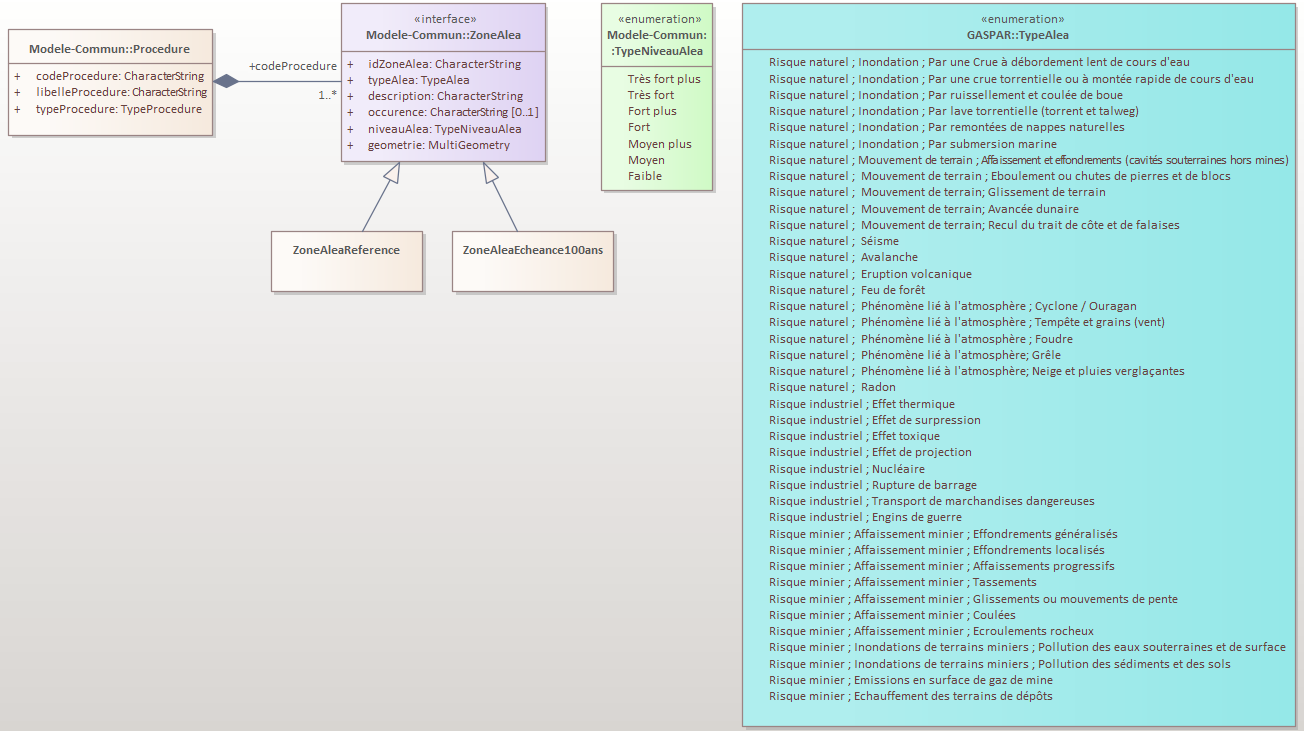
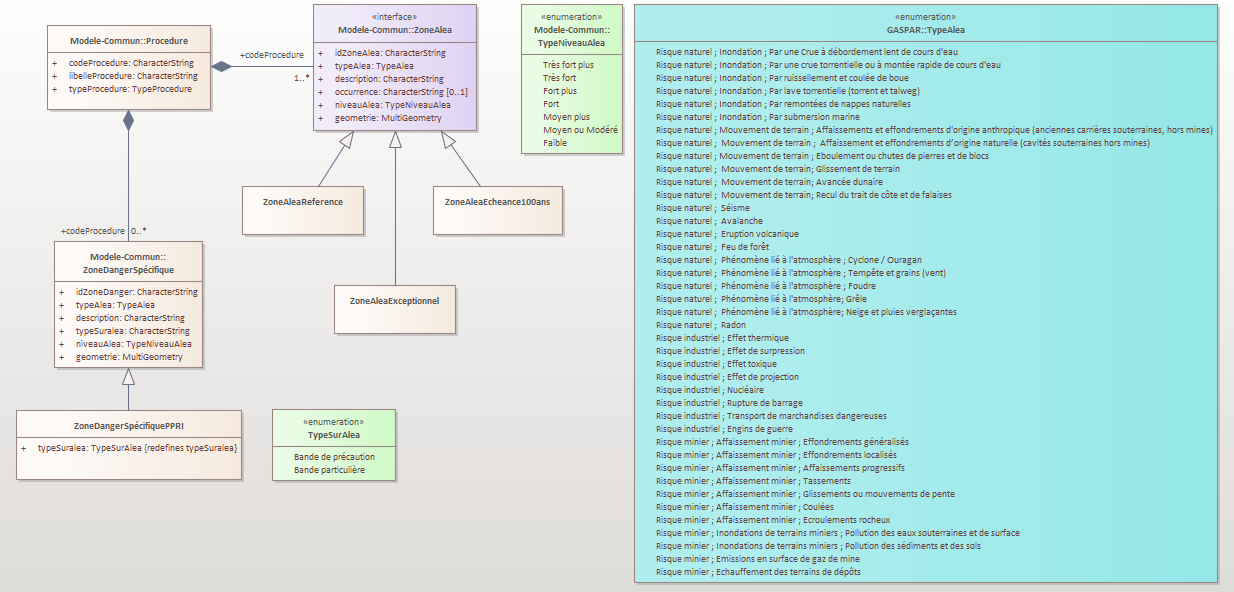
Debut modif PPR. Specialisation ZoneDangerSpecifique et Ajout AleaExceptionnel.

diff --git a/standards/Geostandards-risques-ppr/Document.md b/standards/Geostandards-risques-ppr/Document.md
@@ -15,7 +15,7 @@ Plans de prévention des risques (PPR)
 
 Groupe de travail refonte des Géostandards Risques
 
-*Version 0.1 - Date*
+*Version 0.2 - Date*
 
 
 
@@ -26,7 +26,7 @@ Groupe de travail refonte des Géostandards Risques
 |-|-|
 | **Titre** | Géostandards Risques |
 | **Sous-titre** | Profil applicatif Plans de Prévention des Risques |
-| **Version du document** | *0.1 - jj mois aaaa (date de publication)*  |
+| **Version du document** | *0.2 - jj mois aaaa (date de publication)*  |
 | **Résumé** | La famille des Géostandards Risques a pour objectif de standardiser les données numériques géographiques relatives aux procédures réglementaires de prévention des risques. Elle a été développée dans le but de moderniser et succéder aux standards COVADIS dédiés à cette thématique tels que les standards Plan de Prévention des Risques (PPR) Naturels, Technologiques et Miniers ou Directive Inondation (DI). Elle est constituée d'un document qui établit les concepts communs à ces géostandards et d'un ensemble de profils applicatifs qui les précisent et les implémentent dans le cas de procédures particulières. Ce document est le profil applicatif dédié aux Plans de Prévention des Risques (PPR). |
 | **Etendue d'application** | Territoire national français |
 | **Resolution spatiale** | Entre le 1:5000 et le 1:25000 |
@@ -51,6 +51,7 @@ Groupe de travail refonte des Géostandards Risques
 | Version | Date | Raison |
 | - | - | - |
 | 0.1 | 11/09/2023 | Première version pour relecture du Groupe de Travail |
+| 0.2 | xx/xx/2024 | Prise en compte de la relecture du Groupe de Travail. Version pour commentaires publics. Modifications : xxx  |
 
 ##  Participation à l'écriture
 
@@ -61,11 +62,11 @@ Ce standard a été rédigé par Gilles Cébélieu (IGN) et Alison Lenain (IGN) 
 | Nom |Affiliation 
 | - | - |
 | Besson Stanislas | DDT de l'Isère (38) |
-| Bonnin Nicolas | MTE / DGPR / DAGSI |
-| Bouffier Jacques | MTE / DGPR / BRIL |
+| Bonnin Nicolas | MTECT / DGPR / DAGSI |
+| Bouffier Jacques | MTECT / DGPR /SRNH / SdCAP / BRIL |
 | Boudesseul Nicolas | DREAL Pays de la Loire |
 | Chrétien Guillaume | DDTM de la Seine Maritime (76) |
-| Coignon Bastien | MTE / DGPR / BRIL |
+| Coignon Bastien | MTECT / DGPR / SRNH / SdCAP / BRIL |
 | Di Salvo Magali | DREAL Auvergne Rhone Alpes |
 | Evain Yohann | Cerema |
 
@@ -90,11 +91,11 @@ Il a vocation à se substituer et rendre obsolètes les dernières versions des 
 
 
 
-##  A qui s'adresse ce document ?
+## À qui s'adresse ce document ?
 
 Ce document s'adresse :
 
-- aux services de l'Etat ou assimilés, chargés de produire les PPR, les entretenir les diffuser.
+- aux services de l'Etat ou assimilés, chargés de produire les PPR, les maintenir et les diffuser.
 - aux utilisateurs des PPR, amenés à en prendre connaissance ou les exploiter : services de l'Etat, collectivités locales, professionnels, bureaux d'études, ou grand public.
 
 
@@ -182,12 +183,12 @@ La mise en œuvre des Plans de prévention des risques miniers est définie par 
 
 | Terme | Définition|
 |-|-|
-| Risque | ([INSPIRE NZ:2013](https://inspire.ec.europa.eu/documents/Data_Specifications/INSPIRE_DataSpecification_NZ_v3.0.pdf) reprise de ISO 31010 - Management du risque) : Un risque est la combinaison d'un événement (Aléa) et la probabilité de son occurrence.  |
-| Aléa | ([INSPIRE NZ:2013](https://inspire.ec.europa.eu/documents/Data_Specifications/INSPIRE_DataSpecification_NZ_v3.0.pdf)) reprise de [UNISDR:2009](https://reliefweb.int/attachments/a0ed6b9c-713e-349f-ae9f-d3d8ff336b1f/Rapport_complet.pdf) Un phénomène dangereux, une substance, activité humaine ou condition pouvant causer des pertes de vies humaines, des blessures ou d’autres effets sur la santé, des dommages aux biens, des pertes de moyens de subsistance et des services, des perturbations socio-économiques, ou des dommages à l’environnement.  |
-| Aléa de référence | ([Article R562-11-3 du Code de l'environnement](https://www.legifrance.gouv.fr/codes/article_lc/LEGIARTI000038733751)) Dans le cas des aléas de débordement de cours d'eau et submersion marine, l'aléa de référence est l'aléa déterminé à partir de l'évènement le plus important connu et documenté ou d'un évènement théorique de fréquence centennale, si ce dernier est plus important.   |
-| Opposable | Un document juridique est opposable aux tiers quand tout le monde doit le respecter, même les personnes qui ne l'ont pas signé. Dans le cadre de la prévention des risques, ce terme s'applique a des périmètres géographiques associés à une procédure lorsqu'elle est validée par une autorité publique et sur lesquels s'appliquent des contraintes réglementaires notamment en terme d'urbanisme. |
-| Enjeux | ([INSPIRE NZ:2013](https://inspire.ec.europa.eu/documents/Data_Specifications/INSPIRE_DataSpecification_NZ_v3.0.pdf)) reprise de [UNISDR:2009](https://reliefweb.int/attachments/a0ed6b9c-713e-349f-ae9f-d3d8ff336b1f/Rapport_complet.pdf) : Personnes, biens, systèmes, ou autres éléments présents dans les zones de risque et qui sont ainsi soumis à des pertes potentielles. *Commentaire : L’exposition peut inclure le nombre de personnes ou les types de bien dans une région. Elle peut être combinée avec la vulnérabilité spécifique des éléments exposés pour un risque particulier, afin d’estimer le risque associé en cette zone.* |
-| Vulnérabilité | ([INSPIRE NZ:2013](https://inspire.ec.europa.eu/documents/Data_Specifications/INSPIRE_DataSpecification_NZ_v3.0.pdf)) reprise de [UNISDR:2009](https://reliefweb.int/attachments/a0ed6b9c-713e-349f-ae9f-d3d8ff336b1f/Rapport_complet.pdf) : Les caractéristiques et les circonstances d’une communauté ou d’un système qui le rendent susceptible de subir les effets d’un danger. *Commentaire: Il existe de nombreux aspects de la vulnérabilité, découlant de divers facteurs physiques, sociaux, économiques et environnementaux. Par exemple, il peut s’agir de la mauvaise conception et construction de bâtiments, de l’insuffisance de la protection de l’actif, du manque d’information du public et de sa sensibilisation, de la reconnaissance officielle de limiter les risques et des mesures de préparation, ou du mépris de sage gestion de l’environnement. La vulnérabilité varie sensiblement au sein d’une communauté et dans le temps. Cette définition identifie la vulnérabilité comme une caractéristique de l’élément d’intérêt (de la communauté ou du système) qui est indépendante de son exposition. Toutefois, dans l’usage commun, le mot est souvent utilisé plus largement pour inclure l’élément de l’exposition.* |
+| Risque | La définition de [CNIG_RISQUES_COMMUN:2024](https://github.com/cnigfr/Geostandards-Risques/tree/main/standards/Geostandards-risques-commun/Document.md#termes-spécifiques-et-définitions) s'applique.  |
+| Aléa | La définition de [CNIG_RISQUES_COMMUN:2024](https://github.com/cnigfr/Geostandards-Risques/tree/main/standards/Geostandards-risques-commun/Document.md#termes-spécifiques-et-définitions) s'applique. |
+| Aléa de référence | [Guide PPRN:2016](https://www.actu-environnement.com/media/pdf/guide-pprn.pdf) Phénomène naturel d'occurrence et d'intensité données servant de référence pour définir la réglementation du PPRN. |
+| Opposable | La définition de [CNIG_RISQUES_COMMUN:2024](https://github.com/cnigfr/Geostandards-Risques/tree/main/standards/Geostandards-risques-commun/Document.md#termes-spécifiques-et-définitions) s'applique. |
+| Enjeux | La définition de [CNIG_RISQUES_COMMUN:2024](https://github.com/cnigfr/Geostandards-Risques/tree/main/standards/Geostandards-risques-commun/Document.md#termes-spécifiques-et-définitions) s'applique. |
+| Vulnérabilité | La définition de [CNIG_RISQUES_COMMUN:2024](https://github.com/cnigfr/Geostandards-Risques/tree/main/standards/Geostandards-risques-commun/Document.md#termes-spécifiques-et-définitions) s'applique. |
 | Délaissement | Dans le contexte du "Droit de délaissement" : Le droit de délaissement est une procédure administrative. Elle permet au propriétaire d’un bien immobilier soumis à des prescriptions d’urbanisme l’empêchant d’en jouir, d’inciter le bénéficiaire de la servitude à acquérir le bien. |
 | Expropriation | ([Service-Public.fr](https://www.service-public.fr/particuliers/vosdroits/N326)) L'expropriation est une procédure qui permet à une personne publique (État, collectivités territoriales...) de contraindre un particulier ou une personne morale (entreprise) à céder la propriété de son bien, moyennant le paiement d'une indemnité. |
 
@@ -195,11 +196,11 @@ La mise en œuvre des Plans de prévention des risques miniers est définie par 
 ###  Abréviations
 
 
-**BRGM** Bureau de Recherches Géologiques et Minières
+**BRGM** Bureau de recherches géologiques et minières
 
-**BRIL** Bureau des risques d'inondation et littoraux
+**BRIL** Bureau des risques d'inondation et littoraux (DGPR)
 
-**BRIEC** Bureau des risques des industries de l’énergie et de la chimie 
+**BRIEC** Bureau des risques des industries de l’énergie et de la chimie (DGPR)
 
 **Cerema** Centre d’études et d’expertises sur les risques, l’environnement, la mobilité et l’aménagement
 
@@ -207,7 +208,7 @@ La mise en œuvre des Plans de prévention des risques miniers est définie par 
 
 **CNIG** Comité national de l'information géolocalisée
 
-**DAGSI** Département des affaires générales et des systèmes d’information
+**DAGSI** Département des affaires générales et des systèmes d’information (DGPR)
 
 **DDT** Direction départementale des territoires 
 
@@ -223,7 +224,7 @@ La mise en œuvre des Plans de prévention des risques miniers est définie par 
 
 **IGN** Institut national de l'information géographique et forestière
 
-**MTE** Ministère de la transition écologique et de la cohésion des territoires 
+**MTECT** Ministère de la transition écologique et de la cohésion des territoires 
 
 **OGC** Open Geospatial Consortium
 
@@ -255,7 +256,7 @@ Le périmètre d'application des plans de prévention des risques couvert par ce
 - la production par les services de l'Etat des jeux de données numériques relatives aux plans de prévention des risques conformément aux exigences réglementaires définies dans la partie [Cadre réglementaire des Plans de Prévention des Risques](#cadre-réglementaire-des-plans-de-prévention-des-risques) 
 
 - La mise à disposition de ces jeux de données sur internet de façon à permettre la connaissance du risque par le grand public et leur exploitation aval pour :
-  - la mise en place des politiques d'urbanisation par les collectivités territoriales en conformité avec la loi ;
+  - la mise en place des politiques d'urbanisme et l'aménagement des territoires par les collectivités territoriales en conformité avec la loi ;
   - l'anticipation de la gestion de crise, notamment pour l'élaboration des Plans Particuliers d'Intervention (PPI) par les services de l'Etat ;
   - la mise en œuvre de l'information des acquéreurs ou des locataires (IAL) ;
   - de manière générale, toute exploitation aval de ces données par des organismes privés ou publics pour des actions visant à développer la culture du risque.
@@ -286,8 +287,8 @@ Les acteurs concernés par les plans de prévention des risques sont :
 | Nom du rôle | Caractéristiques |
 |-|-|
 | Producteur | La production des PPR est réalisée au niveau départemental par les Direction Départementales des Territoires et de la Mer (DDTM) |
-| Diffuseur | La diffusion des PPR est assurée par les DDTM sur le site internet de leur préfectures de rattachement et aussi au niveau national sur la plateforme [Géorisques](https://www.georisques.gouv.fr/) opérée par le BRGM. |
-| Utilisateur | Les utilisateurs des PPR sont multiples en fonction des utilisations évoquées dans la partie précédente : grand public, services de l'état, collectivités territoriales, organismes publics ou privés (notamment bureaux d'études ou agences d'urbanismes) amenés à exploiter, dériver ou enrichir ces données. |  
+| Diffuseur | La diffusion des PPR est assurée par les DDTM sur le site internet de leur préfecture de rattachement et aussi au niveau national sur la plateforme [Géorisques](https://www.georisques.gouv.fr/) opérée par le BRGM. |
+| Utilisateur | Les utilisateurs des PPR sont multiples en fonction des utilisations évoquées dans la partie précédente : collectivités territoriales, grand public, services de l'état, organismes publics ou privés (notamment bureaux d'études, notaires, agences d'urbanismes, ...) amenés à exploiter, dériver ou enrichir ces données. |  
 
 
 ##  Cas d'utilisation
@@ -303,12 +304,14 @@ Le cas d'utilisation "Elaborer un PPR" illustre à grand traits les étapes d'é
 
 |Action du cas d'utilisation| Description|
 |-|-|
-|Prescrire, approuver, le PPR | Cette action, de la responsabilité du Préfet, témoigne de l'aspect réglementaire et juridique des PPR. Elle ne concerne ce standard que dans la mesure où ce dernier permet de décrire l'état juridique du PPR, résultant de cette action. |
-| Produire les données métier | Cette étape, menée sous la responsabilité des DDT(M)s est centrale dans l'élaboration du PPR, puisqu'elle permet d'en établir l'essence même : définir les zones d'aléas, faire la collecte des enjeux et établir le zonage réglementaire résultant. A ce stade ces données métiers peuvent être directement produites selon le formalisme du standard. |
-| Produire les données SIG | Cette étape, menée sous la responsabilité des DDT(M)s permet de produire les données numériques correspondant à la cartographie du PPR. Elle peut être une sous étape de la précédente si cette dernière à directement produit ces données numériquement ou peut y succéder s'il s'agit de les numériser. Dans tous les cas, elle est complètement dans le périmètre de ce standard qui permet de structurer cette information. |
-| Produire les pièces écrites |  Cette étape, menée sous la responsabilité des DDT(M)s permet de produire les documents du dossier PPR, notamment les cartes qui peuvent être produites à partir des données SIG évoquées précédemment mais aussi le règlement et les arrêtés préfectoraux. Elle est concernée par le standard dans la mesure où ce dernier permet de faire référence à ces pièces écrites. |
-| Gérer le suivi de la procédure | Cette étape, menée sous la responsabilité des DDT(M)s, relate de l'utilisation de la base GASPAR (gestion assistée des procédures administratives relatives aux risques) pour l'enregistrement et le suivi du PPR au niveau national. Là aussi le standard PPR décrit des informations qui permettent de faire le lien avec les informations de cette base.
+|Prescrire, approuver, le PPR | Cette action, de la responsabilité du préfet de département, témoigne de l'aspect réglementaire et juridique des PPR. Elle ne concerne ce standard que dans la mesure où ce dernier permet de décrire l'état juridique du PPR, résultant de cette action. |
+| Produire les données métier | Cette étape, menée sous la responsabilité du préfet, généralement par les DDT(M)s est centrale dans l'élaboration du PPR, puisqu'elle permet d'en établir l'essence même : définir les zones d'aléas, faire la collecte des enjeux et établir le zonage réglementaire résultant. A ce stade ces données métiers peuvent être directement produites selon le formalisme du standard. |
+| Produire les données SIG | Cette étape, menée sous la responsabilité du préfet, généralement par les DDT(M)s permet de produire les données numériques correspondant à la cartographie du PPR. Elle peut être une sous étape de la précédente si cette dernière à directement produit ces données numériquement ou peut y succéder s'il s'agit de les numériser. Dans tous les cas, elle est complètement dans le périmètre de ce standard qui permet de structurer cette information. |
+| Produire les pièces écrites |  Cette étape, menée sous la responsabilité du préfet, généralement par les DDT(M)s permet de produire les documents du dossier PPR, notamment les cartes qui peuvent être produites à partir des données SIG évoquées précédemment mais aussi le règlement et les arrêtés préfectoraux. Elle est concernée par le standard dans la mesure où ce dernier permet de faire référence à ces pièces écrites. |
+| Gérer le suivi de la procédure | Cette étape, menée sous la responsabilité du préfet, généralement par ldu préfet, généralement par les DDT(M)s, relate de l'utilisation de la base GASPAR (gestion assistée des procédures administratives relatives aux risques) pour l'enregistrement et le suivi du PPR au niveau national. Là aussi le standard PPR décrit des informations qui permettent de faire le lien avec les informations de cette base. |
 
+
+La figure suivante illustre ces actions avec les interventions correspondantes des acteurs et systèmes impliqués pour chacune d'elles.
 
 
 **Figure xx : Cas d'utilisation : Elaborer un PPR**
@@ -328,6 +331,10 @@ Le cas d'utilisation "Publier un PPR" illustre les grandes étapes de la mise en
 | Valider les données SIG | Cette action permet de vérifier que les données SIG relatives au PPR sont conformes au modèle et aux exigences de ce standard. Elle est un préalable à leur publication. La mise en œuvre de cette action peut se faire sur le système de publication (ici, représenté par Géorisques). Des vérifications de cohérence avec le système GASPAR peuvent aussi être réalisées. |
 | Mettre en ligne les données SIG | Cette action est aussi au cœur de la cible de ce standard. Elle permet de rendre les données de PPR accessibles aux différents types d'utilisateurs mentionnés précédemment et de nourrir le cas d'utilisation suivant. La publication peut se faire sur le site internet de la préfecture du département de la DDT(M) concernée, mais elle a vocation à se faire sur la plateforme nationale de diffusion qu'est Géorisques. |
 
+
+La figure suivante illustre ces actions avec les interventions correspondantes des acteurs et systèmes impliqués pour chacune d'elles.
+
+
 **Figure xx : Cas d'utilisation : Publier un PPR**
 
 ![Publier un PPR](./ressources/CU-publier-ppr.png)
@@ -335,15 +342,18 @@ Le cas d'utilisation "Publier un PPR" illustre les grandes étapes de la mise en
 
 ### Cas d'utilisation Exploiter un PPR
 
-Le cas d'utilisation "Exploiter un PPR" illustre des utilisations "type" des PPR une fois mis en ligne. Elles n'ont pas vocation à être exhaustive mais elles sont représentatives des exploitations couvertes par ce standard. Elles sont facilitées par la production et la diffusion de données PPR en conformité avec le Standard grâce à la connaissance de la structure des données et de sa qualité.
+Le cas d'utilisation "Exploiter un PPR" illustre des utilisations "type" des PPR une fois mis en ligne. Il n'a pas vocation à être exhaustif mais est représentatif des exploitations couvertes par ce standard. Ces utilisations types associées sont facilitées par la production et la diffusion de données PPR en conformité avec le Standard grâce à la connaissance de la structure des données et de sa qualité.
 
 
 |Action du cas d'utilisation| Description|
 |-|-|
-| Consulter les données | Cette action est celle du grand public qui souhaite connaitre les risques autour d'une position. Elle est rendue possible par des interfaces de visualisation en ligne sur la plateforme nationale Géorisques ou éventuellement sur les sites web des préfectures qui mettent en œuvre de telles fonctionnalités. La consultation est aussi rendue possible grâce aux métadonnées qui vont permettre à l'utilisateur de retrouver et sélectionner la donnée qu'il souhaite consulter grâce à des mécanismes de catalogage. |
+| Consulter les données | Cette action est celle du grand public qui souhaite connaitre les risques sur un secteur. Elle est rendue possible par des interfaces de visualisation en ligne sur la plateforme nationale Géorisques ou éventuellement sur les sites web des préfectures qui mettent en œuvre de telles fonctionnalités. La consultation est aussi rendue possible grâce aux métadonnées qui vont permettre à l'utilisateur de retrouver et sélectionner la donnée qu'il souhaite consulter grâce à des mécanismes de catalogage. |
 | Télécharger les données SIG PPR | Cette action va de pair avec la précédente et est rendue possible par les mêmes plateformes. Elle peut concerner le grand public (avec un profil plutôt initié) mais aussi les collectivités territoriales ou des organismes de type bureaux d'études qui ont besoin de télécharger les données pour les traiter ou les intégrer dans leur système d'information. |
-| Dériver / enrichir les données | Cette action est aussi liée à la précédente. Elle est représentative des utilisations telles que la production des Servitudes d'Utilité Publiques dérivées des PPR et mises en œuvre par les services de l'Etat ou l'utilisation des PPR pour élaborer les plans locaux d'urbanisme par les collectivités territoriales. |
+| Dériver / enrichir les données | Cette action est aussi liée à la précédente. Elle est représentative des utilisations telles que la production des données SIG décrivant les Servitudes d'Utilité Publiques dérivées des PPR et mises en œuvre par les services de l'Etat ou l'utilisation des PPR dans le cadre de l'élaboration des plans locaux d'urbanisme par les collectivités territoriales. |
 | Publier les données dérivées | La publication des données dérivées mentionnées ci-dessus n'est pas couverte par le standard mais elle fait partie de la chaine aval de diffusion des données PPR. Elle est aussi facilitée par l'obtention de données respectant les critères de qualité énoncés par le standard PPR. |
+
+
+La figure suivante illustre ces actions avec les interventions correspondantes des acteurs et systèmes impliqués pour chacune d'elles.
 
 
 **Figure xx : Cas d'utilisation : Exploiter un PPR**
@@ -372,9 +382,14 @@ Dans le cadre de l'élaboration des **plans de prévention des risques**, les en
 
 ### Thématique Aléas
 
-Dans le cadre de l'élaboration des **plans de prévention des risque naturels**, les zones d'aléa sont déterminées et qualifiées relativement à un **aléa de référence** dont les modalités sont fixées par décrets relatifs au type d'aléa. Dans le cas particulier de l'aléa **inondation par submersion marine**, des zones d'**aléas à échéance 100 ans** doivent aussi être déterminées et qualifiées selon des modalités précisées par arrêté du ministre chargé de la prévention des risques majeurs ([Art. R562-11-5 du code de l'environnement](https://www.legifrance.gouv.fr/codes/section_lc/LEGITEXT000006074220/LEGISCTA000006177007/#LEGISCTA000006177007)). Dans ce cadre, la classe [ZoneAlea](#classe-dobjets-zonealea) est spécialisée par deux classes [ZoneAleaReference](#classe-dobjets-zonealeareference) et [ZoneAleaEcheance100ans](#classe-dobjets-zonealeaecheance100ans) permettant de représenter les zones d'aléas correspondant respectivement à l'aléa de référence et à l'aléa  à échéance 100 ans. L'implémentation de la classe ZoneAleaEcheance100ans n'est obligatoire que dans le cadre de l'aléa submersion marine.
+
+Dans le cadre de l'élaboration des **plans de prévention des risque naturels**, les zones d'aléa sont déterminées et qualifiées relativement à un **aléa de référence** dont les modalités sont fixées par décrets relatifs au type d'aléa. A ce titre, la classe [ZoneAlea](#classe-dobjets-zonealea) est spécialisée par la classe [ZoneAleaReference](#classe-dobjets-zonealeareference) permettant de représenter les zones d'aléas correspondant à cet aléa de référence et à l'aléa.
+
+Dans le cas particulier de l'aléa **inondation par submersion marine**, des zones d'**aléas à échéance 100 ans** doivent aussi être déterminées et qualifiées selon des modalités précisées par arrêté du ministre chargé de la prévention des risques majeurs ([Art. R562-11-5 du code de l'environnement](https://www.legifrance.gouv.fr/codes/section_lc/LEGITEXT000006074220/LEGISCTA000006177007/#LEGISCTA000006177007)). Dans ce cadre, la classe [ZoneAlea](#classe-dobjets-zonealea) est spécialisée par la classe [ZoneAleaEcheance100ans](#classe-dobjets-zonealeaecheance100ans) permettant de représenter les zones d'aléas correspondant à l'aléa à échéance 100 ans. L'implémentation de cette classe n'est obligatoire que dans le cadre de l'aléa submersion marine.
 
 Par ailleurs, l'application des différents niveaux d'aléas définis par l'énumération [TypeNiveauAlea](#enumeration-typeniveaualea) dépend du type de PPR concernés.
+
+La classe [ZoneDangerSpecifique](#classe-dobjets-zonedangerspecifique) est aussi spécialisée par la classe [ZoneDangerSpecifiquePPRI](#classe-dobjets-zonedangerspecifiquePPRI) qui permet de caractériser ces zones de danger spécifiques dans le cadre de l'aléa inondation en deux types précisés par l'énumération [TypeSurAlea](#enumeration-typesuralea) : les **bandes de précaution** à l'arrière des systèmes d'endiguement et les **bandes particulières** liées aux chocs mécaniques des vagues et projection des matériaux telles que définies dans le [Décret PPRI:2019](https://www.legifrance.gouv.fr/jorf/id/JORFTEXT000038730841).
 
 
 **Fig. *xx* Modèle UML des classes relatives aux aléas dans le cadre des PPR.**
@@ -490,10 +505,34 @@ Le tableau suivant liste les différents types de procédures de prévention des
 **Propriétés** : Cf. propriétés de la classe [ZoneAlea](#classe-dobjets-zonealea).
 
 
+
+#### Classe d'objets *ZoneDangerSpecifiquePPRI*
+
+**Nom de la classe** : ZoneDangerSpecifiquePPRI
+
+**Titre** : Zone de danger spécifique PPRI
+
+**Définition** : La classe Zone de danger spécifique PPRI permet de représenter des zones de danger particulières superposables aux zones d'aléas dans le cadre des PPRI, ces zones de danger particulières peuvent être de deux types : les **bandes de précaution** à l'arrière des systèmes d'endiguement et les **bandes particulières** liées aux chocs mécaniques des vagues et projection des matériaux telles que définies dans le [Décret PPRI:2019](https://www.legifrance.gouv.fr/jorf/id/JORFTEXT000038730841). Elles sont aussi caractérisées par le type d'aléa ([TypeAlea](#enumeration-typealea)) et son niveau ([TypeNiveauAlea](#enumeration-typeniveaualea)) et rattachées à une procédure donnée. Elles peuvent être aussi liées à un ouvrage de protection ([OuvrageProtection](#classe-dobjets-ouvrageprotection)), notamment lorsqu'il s'agit d'une bande de protection.
+
+**Modélisation géométrique** : Multi polygone de façon à pouvoir matérialiser des géométries complexes. Il est cependant recommandé de restreindre la géométrie à des surfaces élémentaires dans la mesure du possible de façon à éviter des objets avec un géométrie trop lourde et difficiles à manipuler en SIG.
+
+
+**Propriétés** : 
+
+
+| Nom de la propriété | Définition | Type | Valeurs possibles | Contraintes |
+|-|-|-|-|-|
+| idZoneDanger | Identifiant unique d'un objet zone de danger spécifique | CharacterString | Deux objets de la classe ZoneDangerSpecifique ne peuvent pas avoir la même valeur pour cette propriété | 1..1 | 
+| codeProcedure | Identifiant de la procédure pour laquelle la zone de danger spécifique a été calculée. Ce champ permet de faire le lien avec l'objet correspondant de la classe [Procedure](#classe-dobjets-procedure) | CharacterString | La valeur de ce champ doit aussi exister comme valeur de la propriété codeProcedure d'un objet de la classe [Procedure](#classe-dobjets-procedure) | 1..1 |
+| typeAlea | Type de l'aléa associé à la zone de danger spécifique, selon la nomenclature définie dans GASPAR et reprise par l'énumération [TypeAlea](#enumeration-typealea) | Énumération [TypeAlea](#enumeration-typealea) | Celles de l'énumération | 1..1 |
+| niveauAlea | Caractérisation du niveau de l'aléa selon la classification définie dans GASPAR et reprise par l'énumération [TypeNiveauAlea](#enumeration-typeniveaualea). D'après le [Décret PPRI:2019](https://www.legifrance.gouv.fr/jorf/id/JORFTEXT000038730841) : pour les bandes de précautions, le niveau d'aléa est systématiquement "Très fort". Pour les bandes particulières, il est classé en zone d’aléa de référence modéré à très fort, en fonction de l’intensité du phénomène | Énumération [TypeNiveauAlea](#enumeration-typeniveaualea) | Celles de l'énumération | 1..1 |
+| typeSuralea | Ce champ permet d'indiquer le type de zone de danger spécifique. | Énumération [TypeSuralea](#enumeration-typesuralea) | Celles de l'énumération | 0..1 |
+| description | Description textuelle de la zone de danger spécifique | CharacterString | Saisie libre | 0..1 |
+
+
 #### Enumeration *TypeNiveauAlea*
 
 Le tableau suivant reprend la liste des valeurs possibles pour caractériser l'intensité des aléas du modèle commun. Il précise leur application selon le type de PPR et les correspondances avec certaines appellations spécifiques à des types de PPR particuliers.
-
 
 
 | Code | Libellé Etat | Type PPR applicable |
@@ -505,6 +544,16 @@ Le tableau suivant reprend la liste des valeurs possibles pour caractériser l'i
 | 05 | Fort plus | PPRT |
 | 06 | Très fort | PPRN et PPRT |
 | 07 | Très fort plus | PPRT ou PPR Inondation Crue Torrentielles (Correspond au niveau "Très fort Aggravé")|
+
+
+#### Enumeration *TypeSurAlea*
+
+Le tableau suivant liste les valeurs possibles permettant de caractériser les zones de danger spécifiques. 
+
+| Libellé zone | Description |
+|-|-|
+| bande de précaution | Bande de précaution située à l'arrière d'un système d'endiguement, telle que définie dans l'[article R562-11-4 du code de l'environnement](https://www.legifrance.gouv.fr/codes/article_lc/LEGIARTI000038733753) |
+| bande particulière | Il s'agit de la zone décrivant les secteurs soumis aux chocs de vagues et aux projections tels que définis dans l'[article R562-11-4 du code de l'environnement](https://www.legifrance.gouv.fr/codes/article_lc/LEGIARTI000038733753) |
 
 
 ### Thématique Origine du Risque
